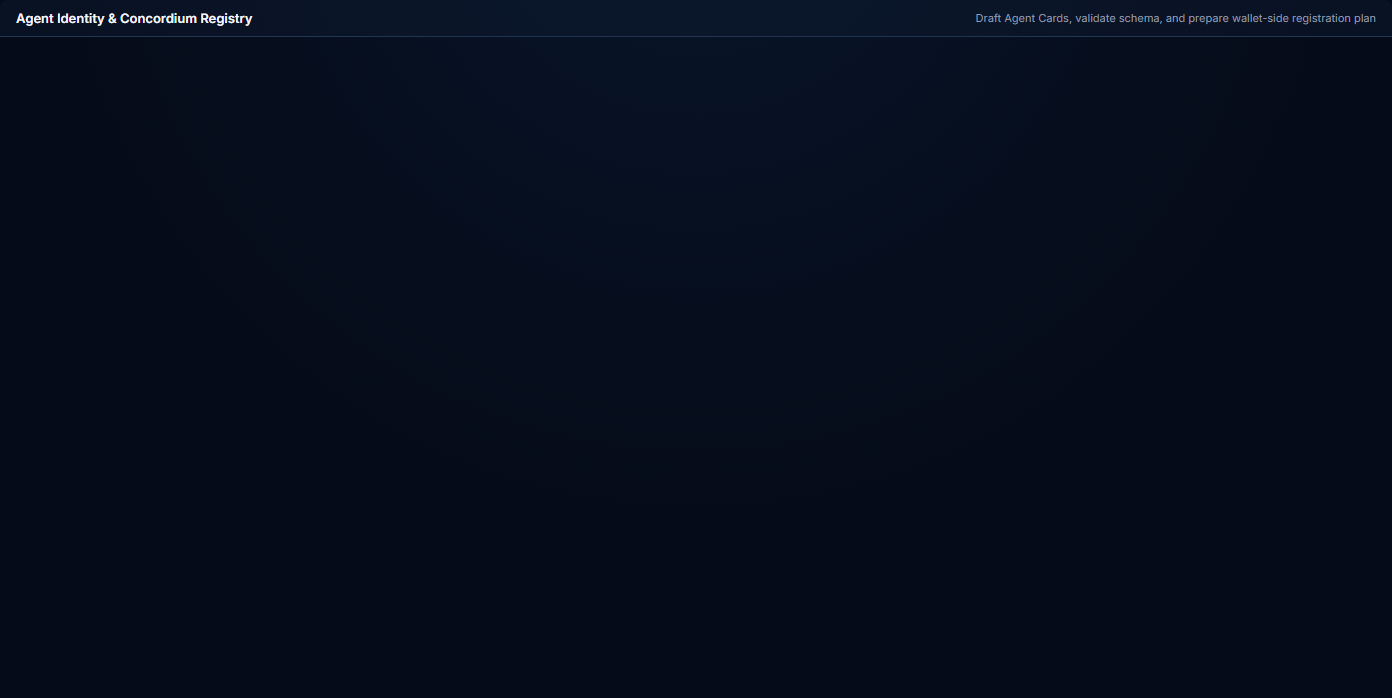
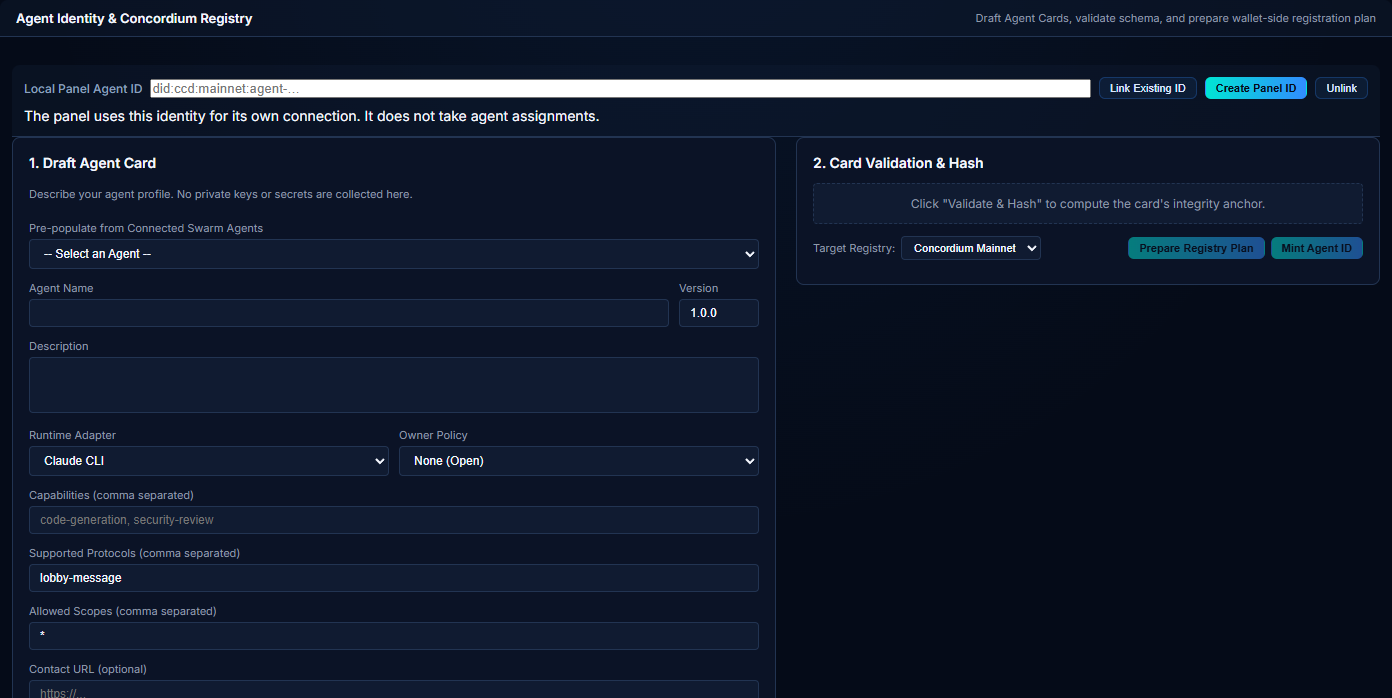
Let localhost panels present a verified Agent ID

diff --git a/agent-os/scripts/agent-os-panel-server.ts b/agent-os/scripts/agent-os-panel-server.ts
@@ -259,6 +259,8 @@ Fix the issues in the workspace files directly and exit once resolved.`,
 // Sends messages via WebSocket (REST POST requires auth, but WS doesn't).
 let lobbyClient: LobbyClient | null = null;
 let lobbyWsConnected = false;
+let panelCredential: { did: string; token: string; lobbyId: string } | undefined;
+let panelIdentityUpdating = false;
 
 async function connectLobbyWs(): Promise<void> {
   if (!DEFAULT_LOBBY_URL || lobbyWsConnected) return;
@@ -282,7 +284,8 @@ async function connectLobbyWs(): Promise<void> {
       } catch {}
     }
 
-    lobbyClient = new LobbyClient({
+    const credential = panelCredential?.lobbyId === lobbyId ? panelCredential : undefined;
+    const client = new LobbyClient({
       lobbyUrl: DEFAULT_LOBBY_URL,
       lobbyId: lobbyId,
       orgId: cachedOrgId || 'default',
@@ -293,12 +296,16 @@ async function connectLobbyWs(): Promise<void> {
         // The panel is the human's control plane — registering as a human participant
         // exempts it from floor control and allows Boss (re)appointment (coordinator rules).
         participant_type: 'human',
-        join_token: joinToken,
+        join_token: credential?.token ?? joinToken,
+        agent_identity_ref: credential?.did,
+        execution_enabled: false,
       },
       reconnect: true,
     });
 
-    lobbyClient.onMessage((msg) => {
+    lobbyClient = client;
+    client.onMessage((msg) => {
+      if (lobbyClient !== client) return;
       try {
         if (msg.type === 'lobby-registered') {
           panelAgentId = msg.agent_id;
@@ -426,9 +433,8 @@ async function connectLobbyWs(): Promise<void> {
       } catch { /* ignore */ }
     });
 
-    await lobbyClient.connect();
-    lobbyWsConnected = true;
-    console.log('Lobby WS: connected via LobbyClient');
+    await client.connect();
+    if (lobbyClient === client) console.log('Lobby WS: connected via LobbyClient');
   } catch (err) {
     console.error('Lobby WS: failed to connect:', err);
     lobbyWsConnected = false;
@@ -2449,9 +2455,60 @@ const server = createServer(async (req, res) => {
     return;
   }
 
+  if (path === '/api/lobby/remote/panel-identity' && method === 'POST') {
+    if (req.headers.origin && req.headers.origin !== `http://${req.headers.host}`) {
+      return sendJson(res, { error: 'same-origin panel request required' }, 403);
+    }
+    const { did } = await parseBody(req);
+    const lobbyId = await resolveLobbyId(req);
+    const token = req.headers.authorization?.match(/^Bearer (\S{1,8192})$/)?.[1];
+    if (!DEFAULT_LOBBY_URL || !lobbyId || (did !== null &&
+        (typeof did !== 'string' || !/^did:ccd:(mainnet|testnet):agent-[a-zA-Z0-9-]{1,128}$/.test(did) || !token))) {
+      return sendJson(res, { error: 'select a lobby and sign in with the registered wallet to link a Panel Agent ID' }, 400);
+    }
+    if (panelIdentityUpdating) return sendJson(res, { error: 'panel identity update in progress' }, 409);
+    if (did === null && !panelCredential) return sendJson(res, { ok: true });
+    if (panelCredential && panelCredential.did === did && panelCredential.token === token &&
+        panelCredential.lobbyId === lobbyId && panelAgentId &&
+        stagingAgentRoster.get(panelAgentId)?.identity_status === 'registry_verified') {
+      return sendJson(res, { ok: true, did });
+    }
+    panelIdentityUpdating = true;
+    const previousCredential = panelCredential;
+    const previousLobby = activeLobbyId;
+    try {
+      panelCredential = typeof did === 'string' && token ? { did, token, lobbyId } : undefined;
+      activeLobbyId = lobbyId;
+      lobbyClient?.close();
+      lobbyClient = null;
+      lobbyWsConnected = false;
+      panelAgentId = null;
+      await connectLobbyWs();
+      if (!did) return sendJson(res, { ok: true });
+      for (let attempt = 0; attempt < 20; attempt++) {
+        const agent = panelAgentId ? stagingAgentRoster.get(panelAgentId) : undefined;
+        if (agent?.identity_ref === did && agent.identity_status === 'registry_verified') {
+          return sendJson(res, { ok: true, did });
+        }
+        await new Promise(resolve => setTimeout(resolve, 250));
+      }
+      panelCredential = previousCredential;
+      activeLobbyId = previousLobby;
+      lobbyClient?.close();
+      lobbyClient = null;
+      lobbyWsConnected = false;
+      panelAgentId = null;
+      void connectLobbyWs();
+      return sendJson(res, { error: 'the lobby could not verify this Panel Agent ID with the current wallet session' }, 403);
+    } finally {
+      panelIdentityUpdating = false;
+    }
+  }
+
   if (path === '/api/lobby/remote/join' && method === 'POST') {
     const body = await parseBody(req);
     const newLobbyId = body.lobby_id as string || null;
+    if (panelIdentityUpdating) return sendJson(res, { error: 'panel identity update in progress' }, 409);
     activeLobbyId = newLobbyId;
     console.log(`Lobby WS: switching active lobby to ${activeLobbyId || 'default (discovered)'}`);
     stagingAgentRoster.clear();

diff --git a/agent-os-panel/tabs/identity.js b/agent-os-panel/tabs/identity.js
@@ -1,4 +1,4 @@
-import { state, fetchJson, postJson, registerTab, escapeHtml, showIdentitySuccessModal, showAlert, showHtmlAlert } from '../app.js';
+import { state, fetchJson, postJson, registerTab, escapeHtml, showIdentitySuccessModal, showAlert, showHtmlAlert, hostedSession, signInToLobby, savedPanelIdentity, linkPanelIdentity } from '../app.js';
 
 let draftCard = null;
 let validationResult = null;
@@ -521,6 +521,57 @@ function readFormValues() {
   draftCard.allowedScopes = scopeStr.split(',').map(s => s.trim()).filter(Boolean);
 }
 
+async function configurePanelIdentity(action) {
+  const input = document.getElementById('panel-identity-did');
+  const status = document.getElementById('panel-identity-status');
+  const controls = document.querySelectorAll('[data-panel-identity]');
+  controls.forEach(button => { button.disabled = true; });
+  try {
+    if (action === 'unlink') {
+      if (!(await linkPanelIdentity(null))?.ok) throw new Error('Could not unlink the Panel Agent ID.');
+      input.value = '';
+      status.textContent = 'Panel Agent ID unlinked.';
+      return;
+    }
+
+    const selectedLobby = document.getElementById('header-lobby-select')?.value;
+    let session = hostedSession();
+    if (!session?.token || session.lobbyId !== selectedLobby) {
+      await signInToLobby({ reload: false });
+      session = hostedSession();
+    }
+    if (!session?.token || !session.identityRef?.startsWith('did:ccd:') || session.lobbyId !== selectedLobby) {
+      throw new Error('Sign in with the registered Concordium wallet for this lobby.');
+    }
+
+    if (action === 'mint') {
+      const [, , network, owner] = session.identityRef.split(':');
+      const { mintAgentId } = await import('../mint-agent-id.js');
+      const config = await fetchJson('/api/mode');
+      const result = await mintAgentId({
+        provider: window.concordium,
+        owner,
+        network,
+        lobbyUrl: config?.lobbyUrl,
+        agentName: 'Agent OS Local Panel',
+        agentRole: 'panel',
+        onStatus: message => { status.textContent = message; },
+      });
+      if (!result?.outcome?.success) throw new Error(result?.anchorError || 'Registry registration did not finalize.');
+      input.value = result.did;
+    }
+
+    status.textContent = 'Checking the Agent ID with the lobby…';
+    const result = await linkPanelIdentity(input.value.trim());
+    if (!result?.ok) throw new Error(result?.error || 'The lobby could not verify the Panel Agent ID. Check the registered wallet and try Link again.');
+    status.textContent = 'Verified. The lobby roster now shows this Panel Agent ID.';
+  } catch (error) {
+    status.textContent = error.message;
+  } finally {
+    controls.forEach(button => { button.disabled = false; });
+  }
+}
+
 function render() {
   const el = document.getElementById('identity-content');
   if (!el) return;
@@ -535,6 +586,15 @@ function render() {
   const scopeVal = draftCard.allowedScopes ? draftCard.allowedScopes.join(', ') : '';
 
   el.innerHTML = `
+    ${lobbyMode === 'swarm' && !window.AGENT_OS_HOSTED ? `
+      <div class="toolbar" style="flex-wrap:wrap;height:auto;padding:12px;gap:8px;">
+        <label for="panel-identity-did">Local Panel Agent ID</label>
+        <input id="panel-identity-did" value="${escapeHtml(savedPanelIdentity())}" placeholder="did:ccd:mainnet:agent-…" style="flex:1;min-width:220px;">
+        <button class="btn btn-secondary btn-sm" data-panel-identity="link">Link Existing ID</button>
+        <button class="btn btn-primary btn-sm" data-panel-identity="mint">Create Panel ID</button>
+        <button class="btn btn-secondary btn-sm" data-panel-identity="unlink">Unlink</button>
+        <p id="panel-identity-status" role="status" style="flex-basis:100%;margin:0;">The panel uses this identity for its own connection. It does not take agent assignments.</p>
+      </div>` : ''}
     <div style="display:flex;gap:20px;height:100%;flex-wrap:wrap;">
       
       <!-- Left Column: Draft Form -->
@@ -702,6 +762,9 @@ function render() {
   `;
 
   // Wire up event listeners
+  el.querySelectorAll('[data-panel-identity]').forEach(button => {
+    button.addEventListener('click', () => void configurePanelIdentity(button.dataset.panelIdentity));
+  });
   document.getElementById('identity-agent-select')?.addEventListener('change', (e) => {
     const slug = e.target.value;
     selectedSlug = slug;

diff --git a/agent-os-panel/app.js b/agent-os-panel/app.js
@@ -873,6 +873,7 @@ export async function init() {
 
   // Activate default tab
   switchTab('agents');
+  void restorePanelIdentity();
 
   // Periodic refresh
   setInterval(async () => {
@@ -917,7 +918,32 @@ function fetchWalletBalance(provider, addrStr) {
   });
 }
 
+const PANEL_IDENTITY_STORAGE = 'agentos.local-panel.did';
+
+export function savedPanelIdentity() {
+  return localStorage.getItem(PANEL_IDENTITY_STORAGE) || '';
+}
+
+export async function linkPanelIdentity(did) {
+  const result = await postJson('/api/lobby/remote/panel-identity', { did });
+  if (result?.ok) {
+    if (did) localStorage.setItem(PANEL_IDENTITY_STORAGE, did);
+    else localStorage.removeItem(PANEL_IDENTITY_STORAGE);
+  }
+  return result;
+}
+
+async function restorePanelIdentity() {
+  if (window.AGENT_OS_HOSTED || !hostedSession()?.token) return;
+  const did = savedPanelIdentity();
+  if (did) await postJson('/api/lobby/remote/panel-identity', { did });
+}
+
 export async function disconnectWallet() {
+  if (!window.AGENT_OS_HOSTED && savedPanelIdentity()) {
+    await postJson('/api/lobby/remote/panel-identity', { did: null });
+  }
+  localStorage.removeItem('agent-os-lobby-token');
   state.wallet.connected = false;
   state.wallet.address = null;
   state.wallet.balance = null;
@@ -1067,6 +1093,7 @@ export async function signInToLobby(options = {}) {
     }));
 
     updateHeaderUI();
+    if (!shouldReload) await restorePanelIdentity();
 
     if (shouldReload) {
       window.location.reload();
